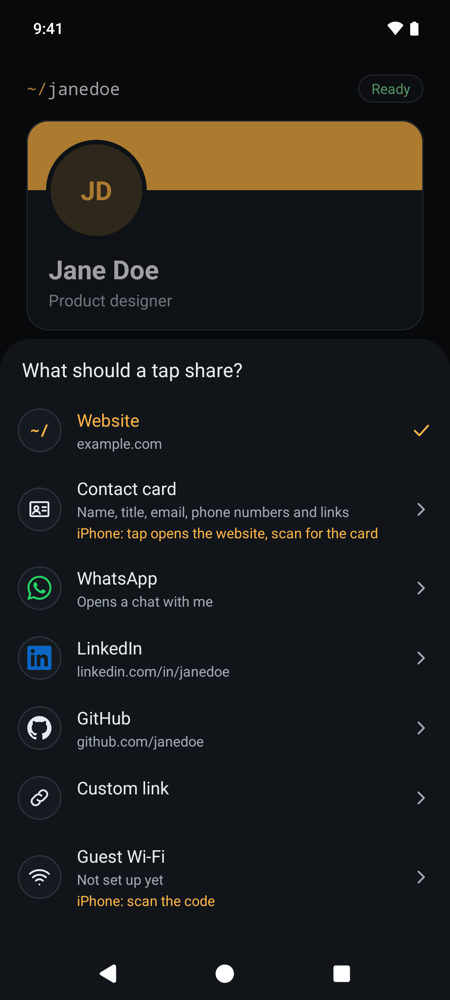
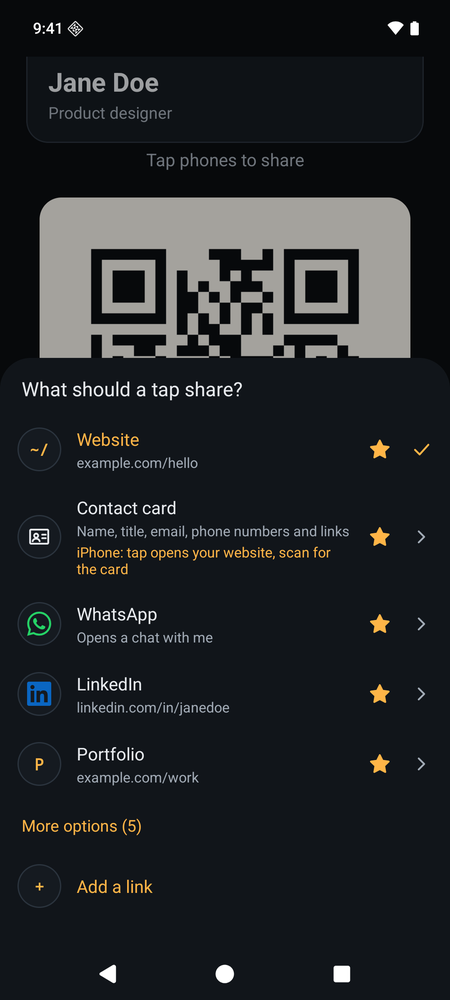
Prepare 1.1.0-beta.1
Version 1.1.0-beta.1 (versionCode 12). The changelog's Unreleased section
becomes the beta's release notes, saying how to get it (a pre-release)
and that it's for testing the update from 1.0.0. Fresh README
screenshots for the Share screen, the options list and the welcome, and
the Settings and Write a card wording now matches "NFC card or sticker".
The multiple-cards spec records the last decision (links per card).

Smoke-tested a shrunk (R8) release build, signed with a debug key, on
the emulator: welcome, LinkedIn routing, adding a link, the full-screen
code and Send for the contact card; no crashes.

diff --git a/docs/specs/multiple-cards.md b/docs/specs/multiple-cards.md
@@ -1,6 +1,6 @@
 # Spec: multiple cards
 
-Status: **draft, for review** (7 October 2026). Decided: naming, switching, cover colours and release (see Decisions). Links per card is proposed, waiting for Thomas's confirmation.
+Status: **agreed, to build for 1.2** (7 October 2026). All decisions are recorded below.
 
 ## Why
 
@@ -26,7 +26,7 @@ Exactly one card is **active**. The Share screen, taps, the QR code, Send/Copy, 
 | Cover colour | **Card** | Tells cards apart at a glance; good for a project or company's colour. |
 | WhatsApp greeting | **Card** | It uses the card's first name ("Hi Thomas"). |
 | What a tap shares; quick-switch stars | **Card** | Work shows LinkedIn and LabTrails; Personal shows Instagram. |
-| Saved links | **Card (proposed)** | Like the LinkedIn and website fields beside them. Each card is self-contained: editing one never changes another (see "Saved links: per card" below). |
+| Saved links | **Card** | Like the LinkedIn and website fields beside them. Each card is self-contained: editing one never changes another (see "Saved links: per card" below). |
 | Guest Wi-Fi | **Shared** | It's about the place, not the person. Each card can still star it. |
 | Event tag | **Shared** | It's about where you are now, whichever card you're using. It still only tags links to that card's own website. |
 | Share over NFC on/off, the tile, the current tab | **Shared** | Phone behaviour, not identity. |
@@ -35,7 +35,7 @@ Exactly one card is **active**. The Share screen, taps, the QR code, Send/Copy, 
 
 ## How it works
 
-### Saved links: per card (proposed)
+### Saved links: per card
 
 Each card has its own saved links, as it has its own LinkedIn link and website.
 
@@ -127,16 +127,14 @@ Unchanged: it creates the first card, labelled "My card", with the colour picked
 
 ## Decisions
 
-Decided by Thomas on 7 October 2026:
+Decided by Thomas on 7 October 2026 (links per card after a second look):
 
 1. **Naming:** identities are **cards**. The writing feature is renamed **Write a sticker** ("an NFC sticker, or a printed card with one inside"); the printable product stays the **Tilde card**.
 2. **Switching:** the `~/handle` button opens the switcher, **and** swiping the profile card steps through cards.
 3. **Cover colour:** yes, per card, from six colours (Tilde amber plus five that suit the dark theme).
 4. **Release:** ship `release/1.1.0` first (beta, then 1.1.0), then build cards on their own branch for **1.2**.
 
-Proposed, waiting for confirmation:
-
-5. **Saved links per card**, with Copy card copying them and Add a link suggesting links from other cards (see "Saved links: per card"). Thomas asked for more thought on shared versus isolated; this was the outcome. The alternative is a shared library starred per card: one place to edit, but it behaves differently from the per-card social links, and an edit can affect other cards.
+5. **Saved links per card**, with Copy card copying them and Add a link suggesting links from other cards (see "Saved links: per card"). Chosen over a shared library starred per card, which has one place to edit but behaves differently from the per-card social links, and where an edit can affect other cards.
 
 ## Build plan (once decided)
 

diff --git a/CHANGELOG.md b/CHANGELOG.md
@@ -1,8 +1,11 @@
 # Changelog
 
-## Unreleased
+## 1.1.0-beta.1 (7 October 2026)
 
-Not released yet: changes collected for the next version, tested locally on the emulator.
+A beta of 1.1: a new first launch, saved links and quicker switching. It's a pre-release, so
+Obtainium only offers it with **Include prereleases** turned on, and the download link on
+tbutman.com/tilde stays on 1.0.0. It should install over 1.0.0 and keep your card; this beta is
+for testing exactly that.
 
 ### First launch
 
